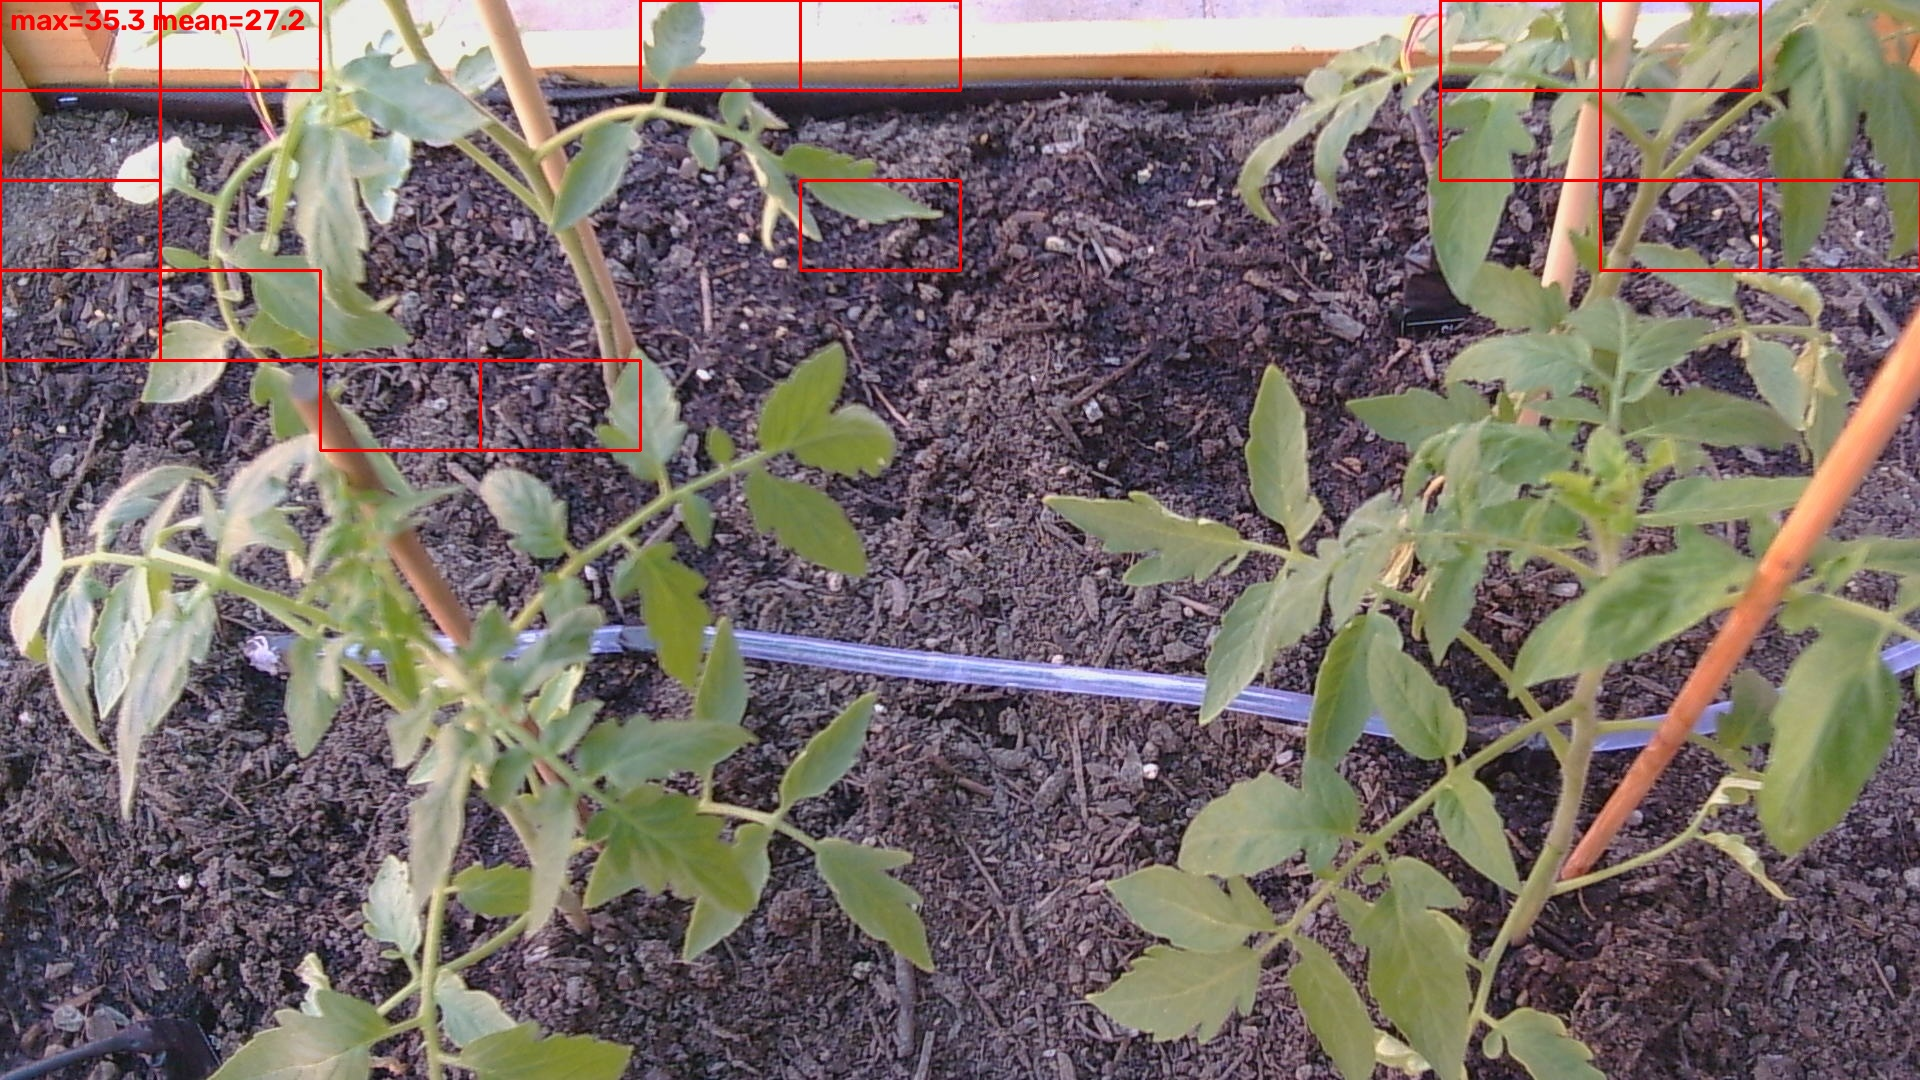
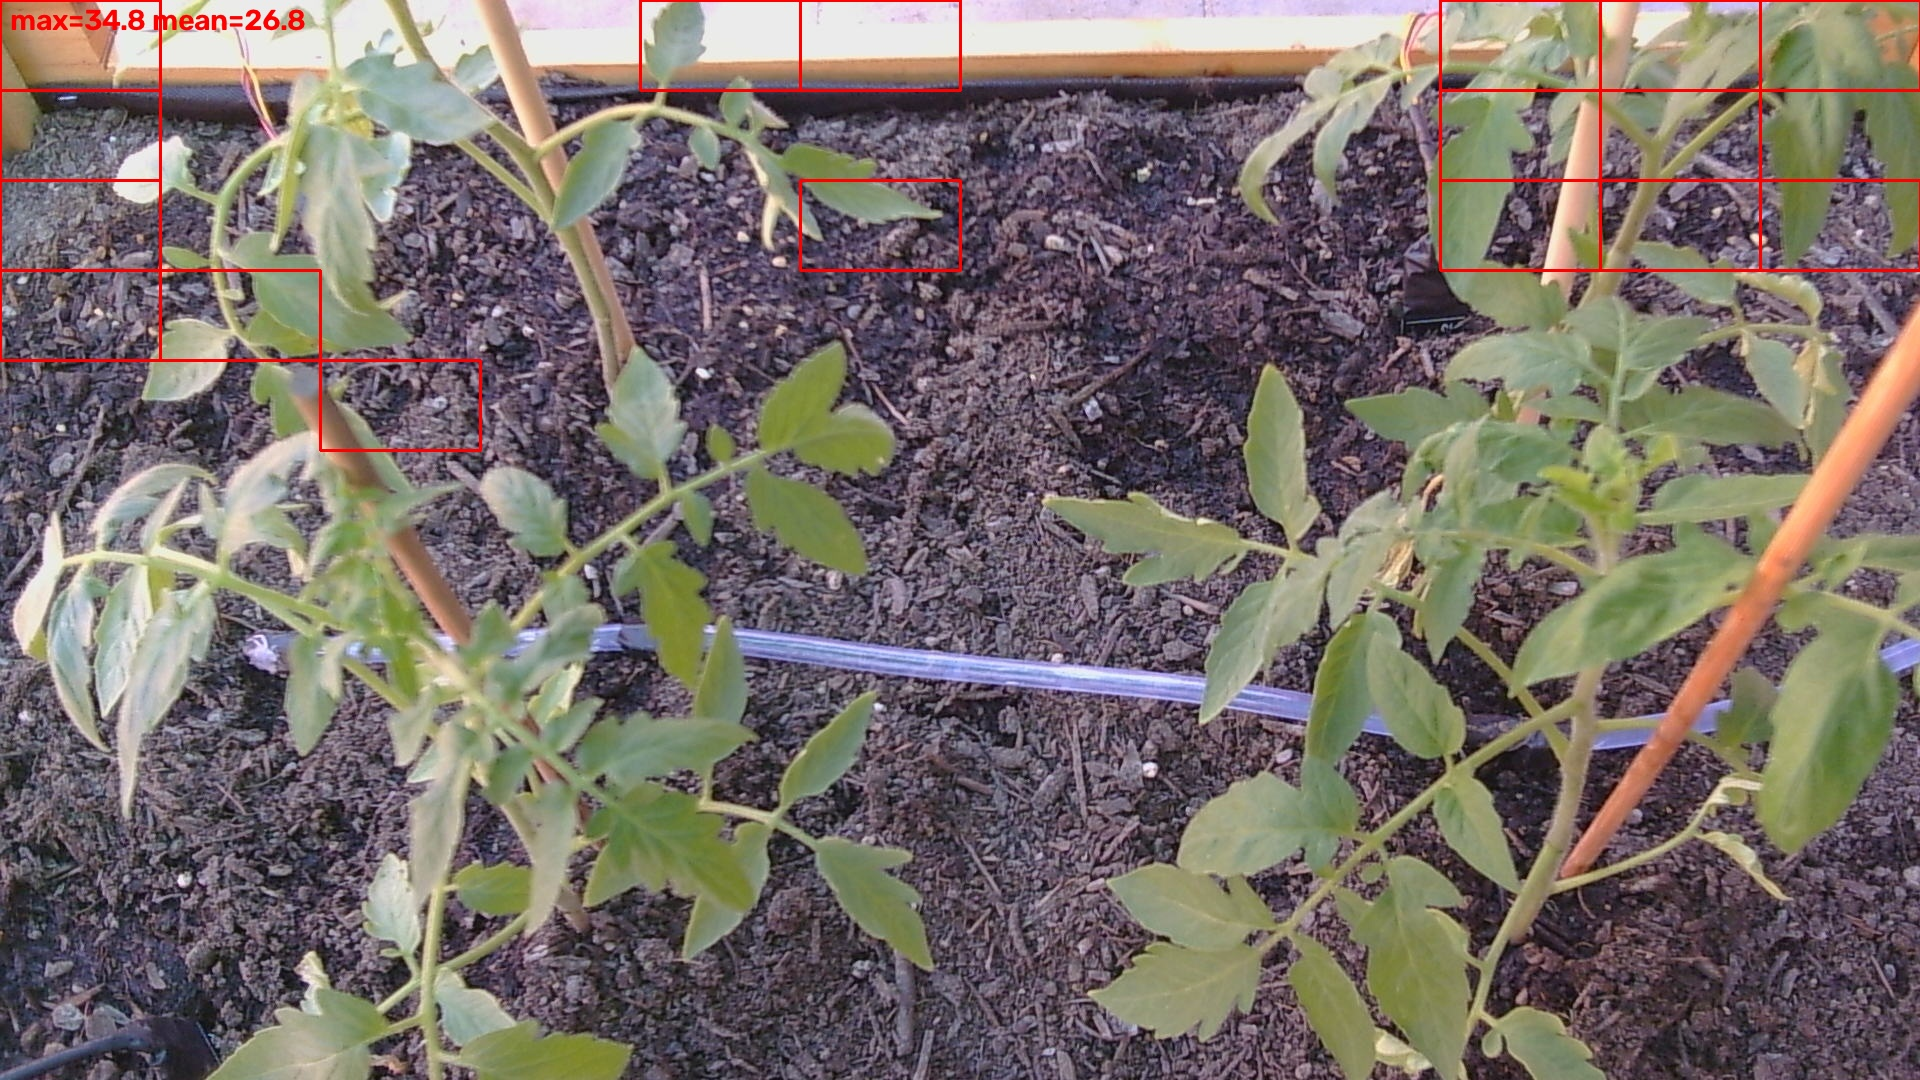
Urban Agriculture v1.5 - README update

diff --git a/README.md b/README.md
@@ -7,7 +7,7 @@ a project by:
 
 An end-to-end monitoring and decision system for a real urban garden, built entirely by the Urban Agriculture
 Group — hardware and software both — around an **Arduino UNO Q**, over the summer of 2026. Every part of the 
-physical build (the wooden enclosure included) and the software arquitecture has been designed and written 
+physical build (the wooden enclosure included) and the software architecture has been designed and written 
 by our team from scratch.
 
 The system reads environmental, soil, light, and power-consumption sensors every cycle, runs a trained
@@ -104,7 +104,8 @@ needing to log in and start it by hand.
 
 The project still follows the standard App Lab layout (`app.yaml`, `sketch/`, `python/`) and can be imported
  later with `arduino-app-cli app new --from-app`, but day-to-day development happens with a plain
-`arduino-cli` setup and a Python virtual environment instead — see `documentation` for why.
+`arduino-cli` setup and a Python virtual environment instead — see the
+[project documentation](UrbanAgriculture_project_documentation.pdf) for why.
 
 ## Tech stack
 
@@ -117,7 +118,7 @@ The project still follows the standard App Lab layout (`app.yaml`, `sketch/`, `p
 | Reporting | Google Sheets (Apps Script webhook), Telegram Bot API (hand-rolled client) |
 | Deployment | systemd service, always-on on the board |
 
-## Running it manually (no Applab no Systemctl)
+## Running it manually (no App Lab, no systemctl)
 
 ```bash
 # Environment and dependencies
